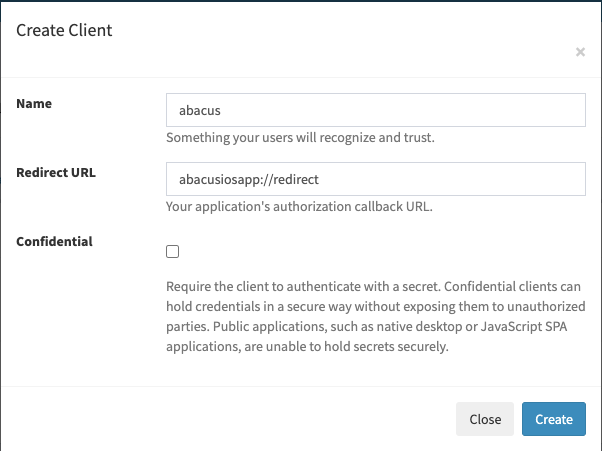
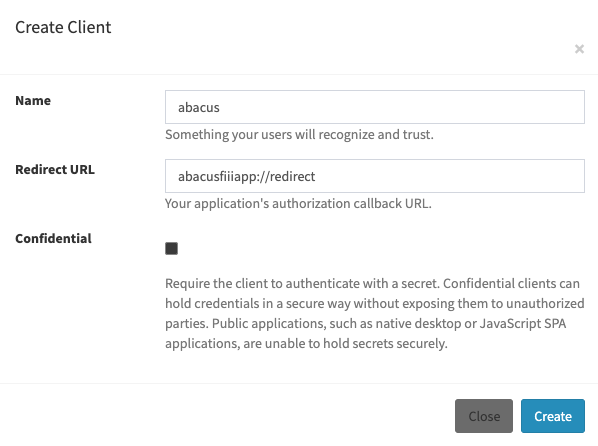
new redirect url schema

diff --git a/src/models/firefly.ts b/src/models/firefly.ts
@@ -328,48 +328,52 @@ export default createModel<RootModel>()({
         },
       } = rootState;
 
-      const apiSemverMinimum = '2.0.9';
-      const { data: accounts } = await dispatch.configuration.apiFetch({ url: `/api/v1/accounts?type=asset&date=${end}` }) as { data: AccountType[]};
-      if (!semver.gte(apiVersion, apiSemverMinimum) || accounts.length === 0) {
+      try {
+        const apiSemverMinimum = '2.0.9';
+        const { data: accounts } = await dispatch.configuration.apiFetch({ url: `/api/v1/accounts?type=asset&date=${end}` }) as { data: AccountType[]};
+        if (!semver.gte(apiVersion, apiSemverMinimum) || accounts.length === 0) {
+          this.setData({ earnedChart: [], spentChart: [] });
+          return;
+        }
+
+        const accountIdsParam = accounts.map((a) => a.id).join('&accounts[]=');
+        const { data: balances } = await dispatch.configuration.apiFetch({ url: `/api/v2/chart/balance/balance?start=${start}&end=${end}&accounts[]=${accountIdsParam}&period=1M` }) as { data: BalanceType[] };
+
+        const earnedChartEntries = balances.filter((balance) => balance.currencyCode === currentCode && balance.label === 'earned')[0]?.entries;
+
+        if (earnedChartEntries) {
+          this.setData({
+            earnedChart: Object.keys(earnedChartEntries).map((key) => {
+              const value = parseFloat(earnedChartEntries[key]);
+
+              return {
+                x: key,
+                y: value,
+              };
+            }),
+          });
+        } else {
+          this.setData({ earnedChart: [] });
+        }
+
+        const spentChartEntries = balances.filter((balance) => balance.currencyCode === currentCode && balance.label === 'spent')[0]?.entries;
+
+        if (spentChartEntries) {
+          this.setData({
+            spentChart: Object.keys(spentChartEntries).map((key) => {
+              const value = parseFloat(spentChartEntries[key]);
+
+              return {
+                x: key,
+                y: value,
+              };
+            }),
+          });
+        } else {
+          this.setData({ spentChart: [] });
+        }
+      } catch (error) {
         this.setData({ earnedChart: [], spentChart: [] });
-        return;
-      }
-
-      const accountIdsParam = accounts.map((a) => a.id).join('&accounts[]=');
-      const { data: balances } = await dispatch.configuration.apiFetch({ url: `/api/v2/chart/balance/balance?start=${start}&end=${end}&accounts[]=${accountIdsParam}&period=1M` }) as { data: BalanceType[] };
-
-      const earnedChartEntries = balances.filter((balance) => balance.currencyCode === currentCode && balance.label === 'earned')[0]?.entries;
-
-      if (earnedChartEntries) {
-        this.setData({
-          earnedChart: Object.keys(earnedChartEntries).map((key) => {
-            const value = parseFloat(earnedChartEntries[key]);
-
-            return {
-              x: key,
-              y: value,
-            };
-          }),
-        });
-      } else {
-        this.setData({ earnedChart: [] });
-      }
-
-      const spentChartEntries = balances.filter((balance) => balance.currencyCode === currentCode && balance.label === 'spent')[0]?.entries;
-
-      if (spentChartEntries) {
-        this.setData({
-          spentChart: Object.keys(spentChartEntries).map((key) => {
-            const value = parseFloat(spentChartEntries[key]);
-
-            return {
-              x: key,
-              y: value,
-            };
-          }),
-        });
-      } else {
-        this.setData({ spentChart: [] });
       }
     },
 

diff --git a/src/components/Forms/OauthForm.tsx b/src/components/Forms/OauthForm.tsx
@@ -23,8 +23,8 @@ import { isValidHttpUrl, useThemeColors } from '../../lib/common';
 import translate from '../../i18n/locale';
 
 const copyToClipboard = async () => {
-  await Clipboard.setStringAsync('abacusiosapp://redirect');
-  Alert.alert('abacusiosapp://redirect copied to clipboard');
+  await Clipboard.setStringAsync('abacusfiiiapp://redirect');
+  Alert.alert('abacusfiiiapp://redirect copied to clipboard');
 };
 
 export default function OauthForm({

diff --git a/.github/HELP.md b/.github/HELP.md
@@ -4,7 +4,7 @@
 
 ![img_1.png](img_1.png)
 1. Go to `/profile` 
-2. Create a new Oauth client with redirect URI: `abacusiosapp://redirect`
+2. Create a new Oauth client with redirect URI: `abacusfiiiapp://redirect`
 
 ![img.png](img.png)
 
@@ -12,7 +12,7 @@
 
 4. No need to use the secret client but if you do so copy and paste it in the `Oauth Client Secret` field.
 
-<img alt="img_2.png" height="670" src="img_2.png" width="300"/>
+<img alt="img_2.jpeg" height="670" src="img_2.jpeg" width="300"/>
 
 ### Personal Access Token
 
